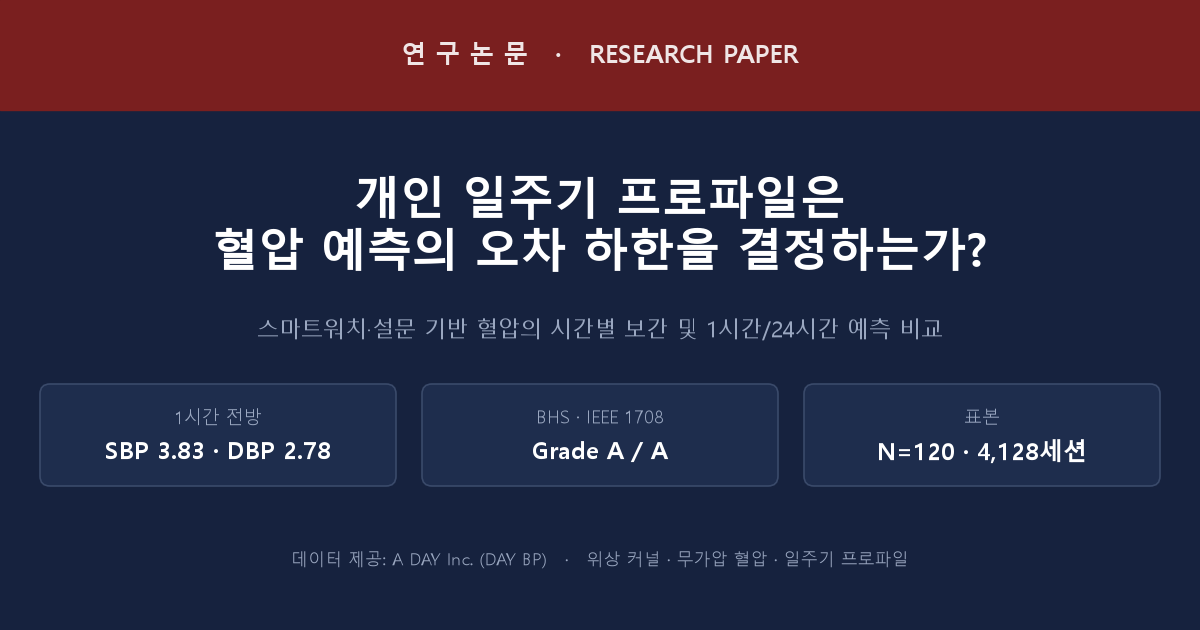
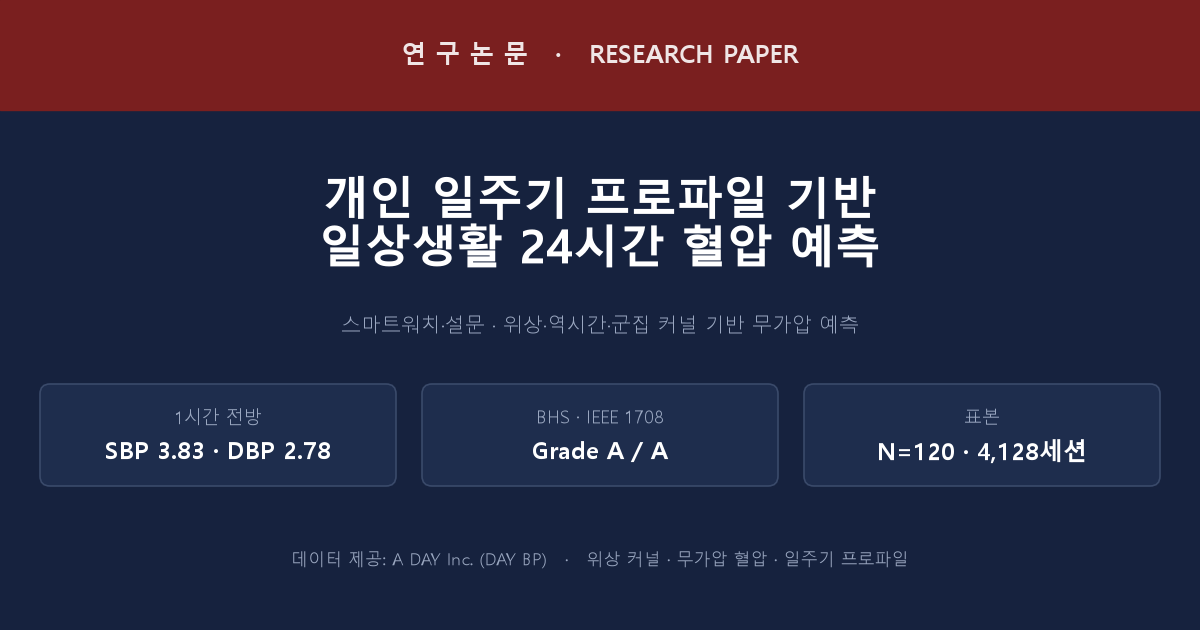
논문 제목 변경: "개인 일주기 프로파일 기반 일상생활 24시간 혈압 예측"
- 부제 없는 단일 제목으로 교체 (선행연구 키워드: 일상생활·24시간 예측·위상·역시간·군집·일주기 프로파일)
- paper.html/pdf/docx/hwpx 재생성, 카카오 썸네일·index 카드·메타태그(og:title/title) 일괄 반영
- 영문 제목: Daily-life 24-hour blood pressure forecasting based on the personal circadian profile

Changed region(s): [[0.185, 0.2714, 0.8325, 0.4524], [0.2158, 0.4825, 0.8017, 0.5429]]

diff --git a/paper.html b/paper.html
@@ -1,8 +1,8 @@
 <!doctype html><html lang="ko"><head><meta charset="utf-8">
 <meta name="viewport" content="width=device-width,initial-scale=1">
-<title>개인 일주기 프로파일은 혈압 예측의 오차 하한을 결정하는가 — 무가압 혈압 시간별 보간·예측 연구</title>
+<title>개인 일주기 프로파일 기반 일상생활 24시간 혈압 예측</title>
 <meta property="og:type" content="article">
-<meta property="og:title" content="개인 일주기 프로파일은 혈압 예측의 오차 하한을 결정하는가?">
+<meta property="og:title" content="개인 일주기 프로파일 기반 일상생활 24시간 혈압 예측">
 <meta property="og:description" content="스마트워치·설문 기반 혈압의 시간별 보간 및 1시간/24시간 예측 비교. 위상 커널이 최저 오차(1h SBP 3.83·DBP 2.78, BHS Grade A). 설문·웨어러블·합성커널·군집화 모두 오차 하한을 못 낮춤(p>0.12). N=120.">
 <meta property="og:image" content="https://sdkparkforbi.github.io/bp-interpolation-book/thumbnail_paper.png">
 <style>
@@ -37,8 +37,8 @@ sup{font-size:10px;color:var(--accent)}
 hr{border:0;border-top:1px solid var(--line);margin:34px 0}
 </style></head><body>
 <div class="page">
-<h1>개인 일주기 프로파일은 혈압 예측의 오차 하한을 결정하는가?<br>— 스마트워치·설문 기반 시간별 보간 및 1시간/24시간 예측 비교 연구</h1>
-<div class="sub">Does the personal circadian profile set the error floor of blood-pressure prediction?</div>
+<h1>개인 일주기 프로파일 기반 일상생활 24시간 혈압 예측</h1>
+<div class="sub">Daily-life 24-hour blood pressure forecasting based on the personal circadian profile</div>
 <div class="authors">[저자명 확인 필요]<sup>1</sup></div>
 <div class="affil"><sup>1</sup> [소속 확인 필요] · 데이터 제공: A DAY Inc. (DAY BP) · 작성일 2026-06-26</div>
 

diff --git a/index.html b/index.html
@@ -27,10 +27,10 @@ h1{font-size:32px;margin:.2em 0}.sub{color:#9aa7bd;font-size:16px;margin-bottom:
 <div class="body"><h2>PART 1 · 혈압 보간</h2><p>마스킹된 혈압을 주변값·합성커널로 복원. 가중규칙×추정수준, 군집별 합성커널 3개+2경로 회귀. 120명 부록.</p><span class="tag">Interpolation</span></div></a>
 <a class="card" href="part2.html">
 <img src="thumbnail_part2.png" alt="PART 2 예측">
-<div class="body"><h2>PART 2 · 혈압 예측</h2><p>개인 시계열로 다음날 24h 예측. 일평균·VAR·VARX 비교, 최적 래그(AIC=2), 군집별 모형. 7일 완전 119명.</p><span class="tag">Forecasting</span></div></a>
+<div class="body"><h2>PART 2 · 혈압 예측</h2><p>개인 시계열로 day6 24h 예측. 위상커널·합성커널·군집·ML 13모형, static/dynamic, BHS 등급, 선행연구 비교. 120명.</p><span class="tag">Forecasting</span></div></a>
 <a class="card" href="paper.html">
 <img src="thumbnail_paper.png" alt="연구 논문">
-<div class="body"><h2>📄 연구 논문</h2><p>개인 일주기 프로파일은 혈압 예측의 오차 하한을 결정하는가? 1시간 전방 SBP 3.66·DBP 2.74(IEEE Grade A). N=120.</p><span class="tag">Paper</span>
+<div class="body"><h2>📄 연구 논문</h2><p>개인 일주기 프로파일 기반 일상생활 24시간 혈압 예측. 위상·역시간·군집 커널 13모형, 1시간 전방 SBP 3.83·DBP 2.78(BHS Grade A). N=120.</p><span class="tag">Paper</span>
 <p style="margin-top:10px"><a href="paper.pdf" style="color:#7be7d8">PDF</a> · <a href="paper.docx" style="color:#7be7d8">DOCX</a> · <a href="paper.hwpx" style="color:#7be7d8">HWPX</a></p></div></a>
 </div>
 <p class="foot">데이터 120명 × 약 34세션 · 보간 전용(PART1) / 외생 웨어러블 포함(PART2) · 분석·그림 자동 생성</p>